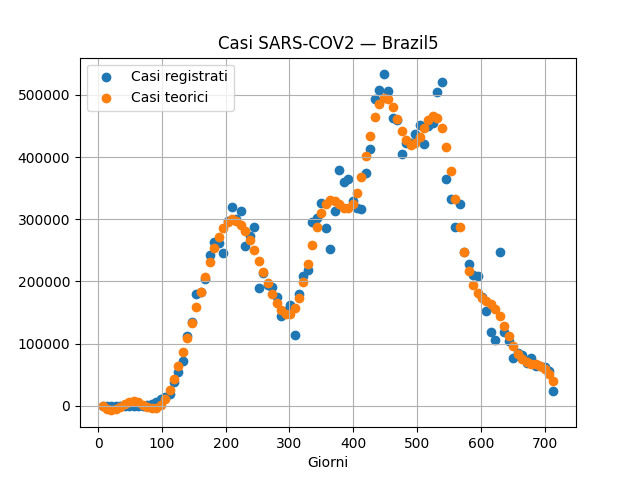
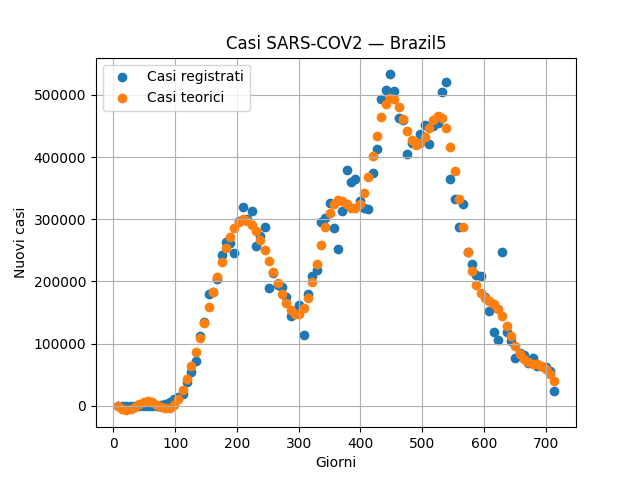
Y-label in graph

diff --git a/P4_Format_data.py b/P4_Format_data.py
@@ -38,6 +38,8 @@ for file in os.listdir(Tables_dir):
     plt.scatter(df_out[Day], df_out[Theoretical_cases], label='Casi teorici')
 
     plt.xlabel('Giorni')
+    plt.ylabel('Nuovi casi')
+    plt.subplots_adjust(left=0.15)
     plt.title(f'Casi SARS-COV2 — {file}')
     plt.legend()
     plt.grid(True)
